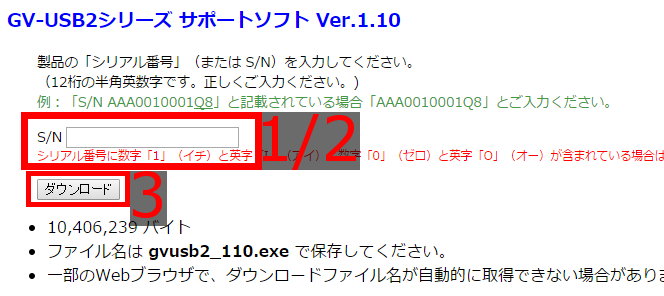
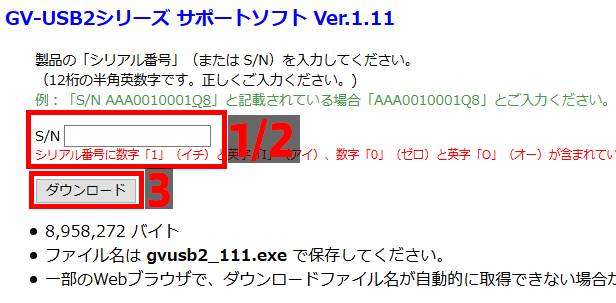
Update GV-USB2 Drivers to latest, put downloaded drivers first

Changed region(s): [[0.0308, 0.152, 1.0, 0.7905], [0.0308, 0.8209, 1.0, 0.973], [0.0, 0.0304, 0.6477, 0.0912]]

diff --git a/gvusb2-guide/index.html b/gvusb2-guide/index.html
@@ -31,8 +31,8 @@
 			<nav id="side-nav">
 				<h1>Navigation</h1>
 					<ul>
-						<li><a href="#s-driver-install">Driver Install (CD)</a></li>
 						<li><a href="#s-download-drivers">Download Drivers</a></li>
+						<li><a href="#s-driver-install">Driver Install (CD)</a></li>
 						<li><a href="#s-codec-install">Codec Install</a></li>
 						<li><a href="#s-amarec-setup">Amarec Setup</a></li>
 						<li><a href="#s-stream-setup">OBS Setup</a></li>
@@ -44,35 +44,35 @@
 								<h1>GV-USB2 English Setup Guide by <a href="https://twitter.com/iotku">iotku</a></h1> 
 							</div>
 					</header>
-				<section id="s-driver-install">
-					<h2>Driver Install</h2>
-						<h3 class="subheader">Using the included CD</h3>
-						<p>If you're installing the drivers from the CD that comes with the GV-USB2 the installation is fairly simple.</p>
-					<p>While it may be somewhat scary to see a bunch of Japanese you don't understand, the installation is only a few clicks.</p>
-					<ul><li>1. Once we've loaded the CD (Auto-run or opened GVUSB2.exe manually), click the right of the 2 large blue buttons</li></ul>
-						<img alt="GV-USB2's CD Main Menu" src="images/cd01.png"/>
-					<ul><li>2. Now click the first blue button marked with a 1</li></ul>
-						<img alt="GV-USB2's CD Second Menu" src="images/cd02.png"/>
-					<ul><li>3. Click next a few times to get through the driver installation and you're done with this step!</li></ul>
-						<img alt="Driver Installation Window" src="images/dinstall.png"/>
-				</section>
-
 				<section id="s-download-drivers">
 					<h2>Downloading the drivers online</h2>
-						<h3 class="subheader">If you don't have a CD (or disk drive) and need the drivers:<br> <a href="http://www.iodata.jp/lib/script/clib.php?code=gvusb2_110.exe">you can get them here.</a></h3>
+					<h3>2019 Update: (New ver 1.11 available)</h3>
+						<h3 class="subheader"><big><a href="http://lib.iodata.jp/lib/script/clib.php?code=gvusb2_111.exe">Drivers download link from OEM here.</a></big></h3>
 						<img alt="GV-USB2 Driver Download Page" src="images/gvdownload.png"/>
 						
 						<ol>
 							<li>You will see a text box to the right of "S/N", this page asks you for your serial number of your device in order to download the drivers. The serial number should be printed on your GV-USB2.</li>
 							<li>Enter your Serial Number in the text field</li>
-							<li>Click the "ダウンロード" ("Download") button to download the driver "gvusb2_110.exe" and run it</li> 
-							<li>A new folder on your desktop will appear called "gvusb2_110", run "GVUSB2.exe" in that folder.</li>
+							<li>Click the "ダウンロード" ("Download") button to download the driver "gvusb2_111.exe" and run it</li> 
+							<li>A new folder on your desktop will appear called "gvusb2_111", run "GVUSB2.exe" in that folder.</li>
 							<li>Click the first blue button, marked with a 1</li>
 						</ol>
 					
 						<img alt="GV-USB2 Installation Selection Screen" src="images/gvusbexeinstall.png"/>
 							<ul><li>Click "Next" and wait a little bit, and the drivers should be installed</li></ul>
 							<img alt="Driver Installation Window" src="images/dinstall.png"/>
+			</section>
+
+			<section id="s-driver-install">
+				<h2>Driver Install</h2>
+					<h3 class="subheader">Using the included CD</h3>
+					<h3>2019 Update: CD Drivers are probably the older 1.10 version which may work fine however you may wish to download 1.11 from the link above.</h3>
+				<ul><li>1. Once we've loaded the CD (Auto-run or opened GVUSB2.exe manually), click the right of the 2 large blue buttons</li></ul>
+					<img alt="GV-USB2's CD Main Menu" src="images/cd01.png"/>
+				<ul><li>2. Now click the first blue button marked with a 1</li></ul>
+					<img alt="GV-USB2's CD Second Menu" src="images/cd02.png"/>
+				<ul><li>3. Click next a few times to get through the driver installation and you're done with this step!</li></ul>
+					<img alt="Driver Installation Window" src="images/dinstall.png"/>
 			</section>
 
 			<section id="s-codec-install">
